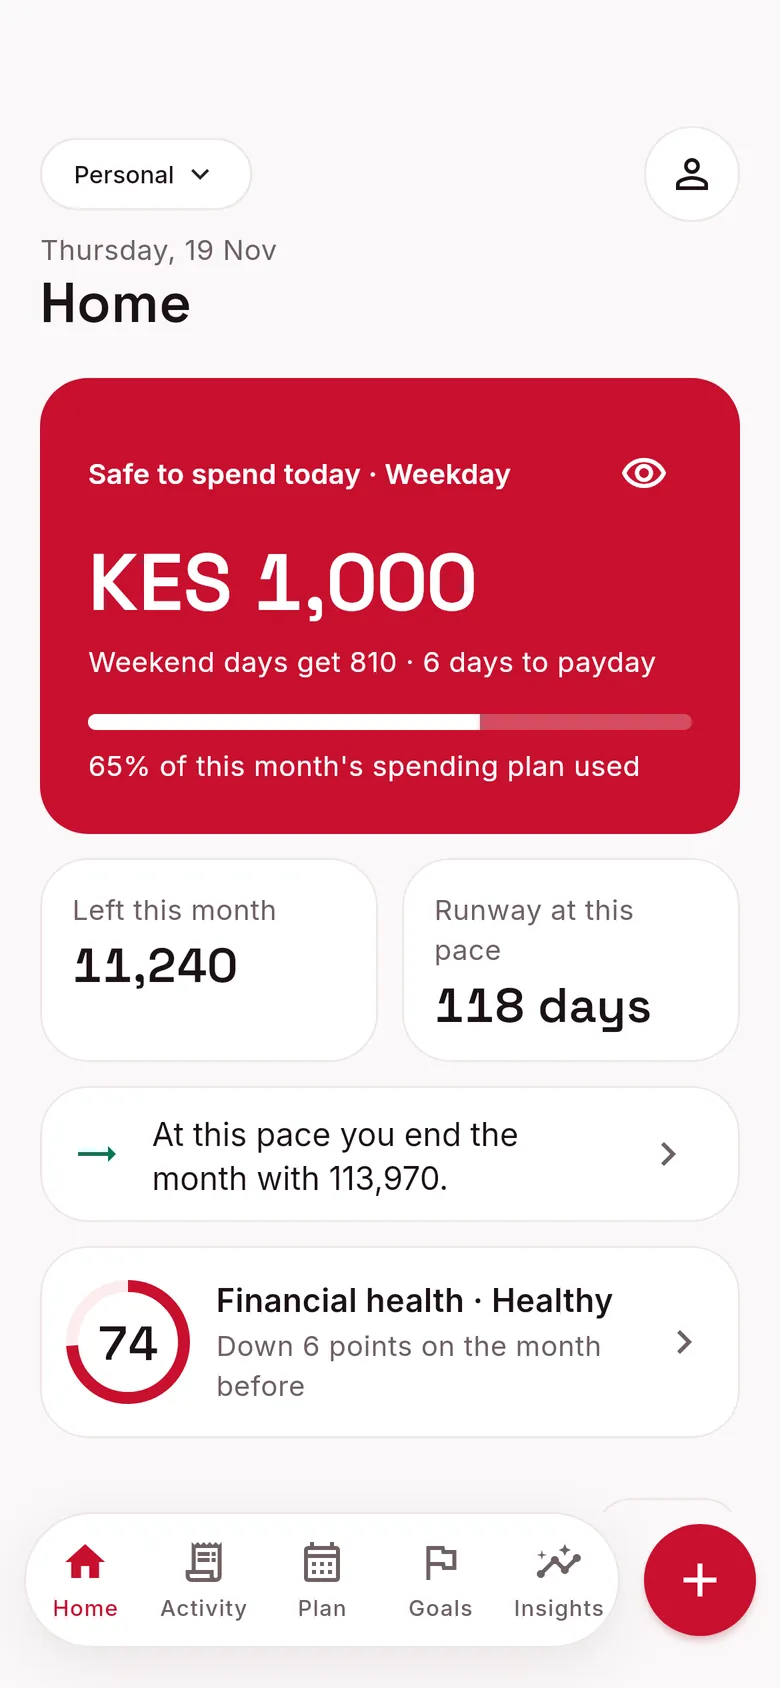
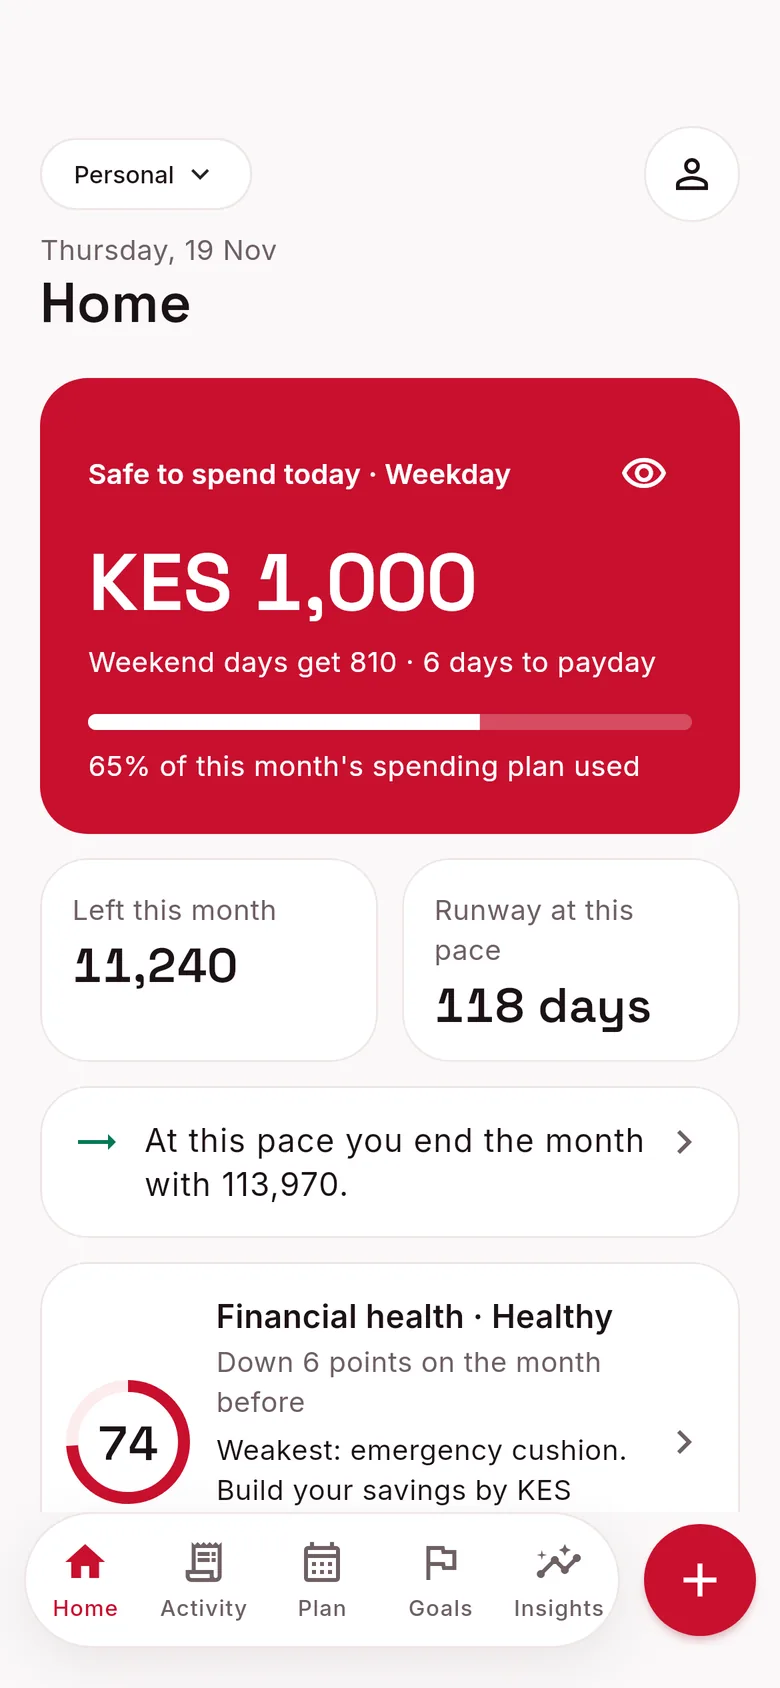
feat: Sponsor page, and screens that keep what informs (#46)
* feat: a Sponsor page, and why it helps us reach the App Store

* content: App Store wording says what the fee does

* content: Home, Activity and currency screens with On hand details and whole account names

* fix: M-Pesa stays on one line on the Sponsor page

diff --git a/src/data/site.ts b/src/data/site.ts
@@ -447,7 +447,7 @@ export const screens = {
   home: {
     file: "home",
     name: "Home",
-    alt: "Pesa Clarity home screen showing safe to spend today, money left this month, the runway at this pace, what is left at month end and the financial health score",
+    alt: "Pesa Clarity home screen showing safe to spend today, money left this month, the runway at this pace, what is left at month end and the financial health score with its weakest part",
   },
   activity: {
     file: "activity",
@@ -612,7 +612,10 @@ export const faqs: readonly Faq[] = [
   { q: "Is it free?", a: "Yes, every feature." },
   { q: "Does it need my PIN?", a: "It reads only your SMS." },
   { q: "Who sees my money?", a: "Only you." },
-  { q: "iPhone?", a: "Coming after the Android beta." },
+  {
+    q: "iPhone?",
+    a: "Coming after the Android beta. Sponsoring helps pay the App Store fee.",
+  },
   { q: "When can I start?", a: "Today. Download it for Android." },
   {
     q: "Does it work without internet?",
@@ -631,5 +634,36 @@ export const faqs: readonly Faq[] = [
   {
     q: "Which download?",
     a: "Android has Google sign-in. F-Droid has no Google services.",
+  },
+];
+
+/**
+ * Sponsoring: one-time gifts by M-Pesa through CitaPay. `SPONSOR_URL` is the
+ * CitaPay tip-jar link, set as a repository variable; until it is set, the
+ * page says giving opens soon. Giving never unlocks anything in the app.
+ */
+export const sponsor = {
+  url: (import.meta.env.SPONSOR_URL as string | undefined) || "",
+  amounts: [50, 100, 200, 500],
+  provider: "CitaPay",
+} as const;
+
+/** What gifts pay for, most needed first. */
+export const sponsorCosts: readonly Item[] = [
+  {
+    title: "Getting on the App Store",
+    body: "Apple charges US$99 a year to list an app. That puts Pesa Clarity on every iPhone, with updates from the App Store.",
+  },
+  {
+    title: "Getting on Google Play",
+    body: "Google charges US$25, once. Then Android users get the app and its updates from Play instead of installing a file.",
+  },
+  {
+    title: "Keeping it running",
+    body: "The website, a web address of its own, and the text messages that carry sign-in codes for backups.",
+  },
+  {
+    title: "Time",
+    body: "New banks, fixes and features, built and tested by the people who make it.",
   },
 ];

diff --git a/src/styles/global.css b/src/styles/global.css
@@ -350,3 +350,8 @@ main:focus {
   letter-spacing: -0.03em;
   margin: 0;
 }
+
+/* Keeps a name such as M-Pesa on one line. */
+.nowrap {
+  white-space: nowrap;
+}
